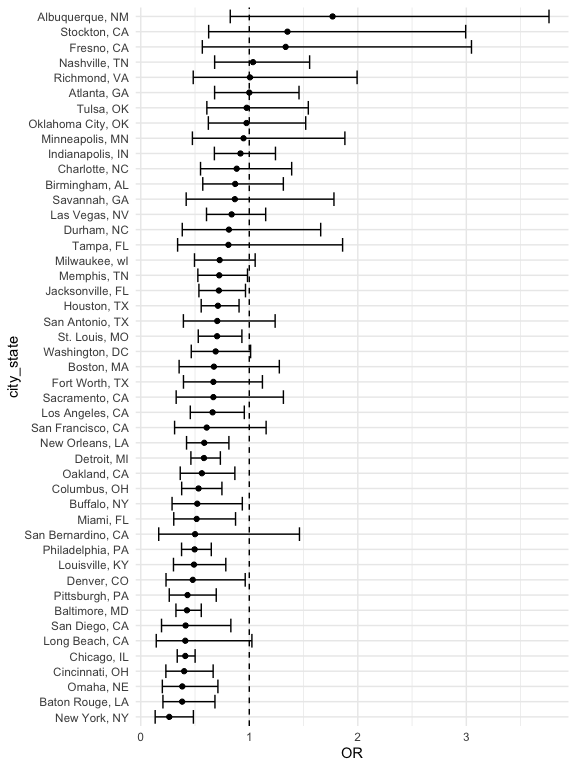
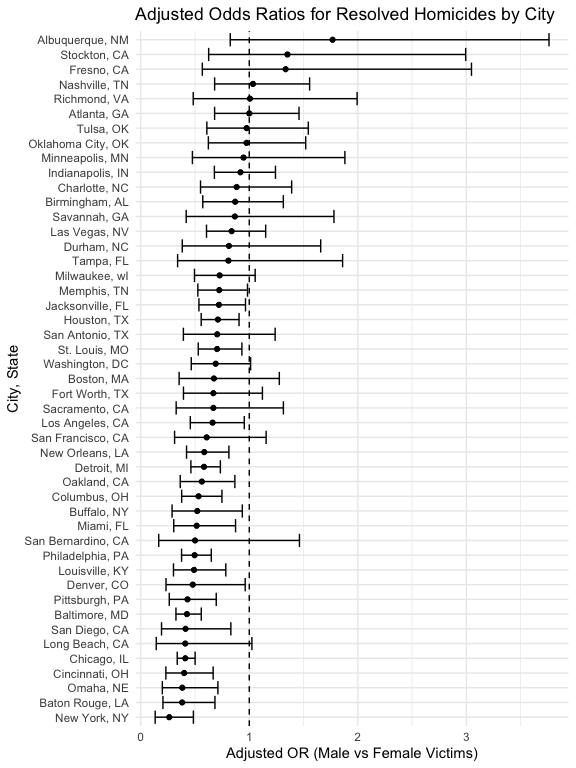
problem 2

Changed region(s): [[0.0312, 0.0, 0.9688, 0.9375], [0.375, 0.9688, 0.8438, 1.0], [0.0, 0.4375, 0.0312, 0.5312]]

diff --git a/p8105_hw6_xc2784.md b/p8105_hw6_xc2784.md
@@ -111,6 +111,11 @@ city_plot <- ggplot(city_ordered, aes(x = OR, y = city_state)) +
   geom_point() +
   geom_errorbarh(aes(xmin = conf.low, xmax = conf.high)) +
   geom_vline(xintercept = 1, linetype = "dashed") +
+    labs(
+      x = "Adjusted OR (Male vs Female Victims)",
+      y = "City, State",
+      title = "Adjusted Odds Ratios for Resolved Homicides by City"
+    ) +
   theme_minimal()
 
 city_plot
@@ -126,3 +131,136 @@ opposite pattern, but these are exceptions. However, most cities have
 ORs near 1, and their confidence intervals cross 1, suggesting there is
 little evidence of a statistically difference in resolved rates between
 male and female victims after adjusting for age and race.
+
+### Problem 2
+
+``` r
+library(p8105.datasets)
+data("weather_df")
+
+weather <-
+  weather_df %>% 
+  filter(name == "CentralPark_NY") %>% 
+  drop_na(tmax, tmin, prcp)
+
+reg = lm(tmax ~ tmin + prcp, data = weather)
+reg %>% glance() %>% select(r.squared)
+```
+
+    ## # A tibble: 1 × 1
+    ##   r.squared
+    ##       <dbl>
+    ## 1     0.912
+
+``` r
+reg %>% tidy()
+```
+
+    ## # A tibble: 3 × 5
+    ##   term        estimate std.error statistic   p.value
+    ##   <chr>          <dbl>     <dbl>     <dbl>     <dbl>
+    ## 1 (Intercept)  7.56     0.162        46.6  1.31e-220
+    ## 2 tmin         1.03     0.0119       86.9  0        
+    ## 3 prcp        -0.00157  0.000966     -1.63 1.04e-  1
+
+``` r
+set.seed(1)
+n_boot <- 5000
+
+boot_samples <-
+  weather %>%
+  modelr::bootstrap(n = n_boot, id = "strap_id")
+
+boot_results <-
+  boot_samples %>%
+  mutate(
+    fit  = map(strap, ~ lm(tmax ~ tmin + prcp, data = .x)),
+    gl   = map(fit, glance),
+    coef = map(fit, tidy)
+  ) %>%
+  mutate(
+    r_sq = map_dbl(gl, "r.squared"),
+    beta_ratio = map_dbl(
+      coef,
+      ~ {
+        tmp <- .x %>% select(term, estimate)
+        
+        b_tmin <- tmp %>%
+          filter(term == "tmin") %>%
+          pull(estimate)
+        
+        b_prcp <- tmp %>%
+          filter(term == "prcp") %>%
+          pull(estimate)
+        
+        b_tmin / b_prcp
+      }
+    )
+  ) %>%
+  select(strap_id, r_sq, beta_ratio)
+
+boot_results
+```
+
+    ## # A tibble: 5,000 × 3
+    ##    strap_id  r_sq beta_ratio
+    ##    <chr>    <dbl>      <dbl>
+    ##  1 0001     0.913      -237.
+    ##  2 0002     0.921      -424.
+    ##  3 0003     0.905     -1492.
+    ##  4 0004     0.921      -364.
+    ##  5 0005     0.906      -461.
+    ##  6 0006     0.915      -634.
+    ##  7 0007     0.919      -808.
+    ##  8 0008     0.905     -2435.
+    ##  9 0009     0.917      -723.
+    ## 10 0010     0.916      -344.
+    ## # ℹ 4,990 more rows
+
+``` r
+p1 = boot_results %>%
+  ggplot(aes(x = r_sq)) +
+  geom_histogram() +
+  theme_minimal() +
+  labs(x = "R-squared", title = "Bootstrap distribution of R-squared")
+
+p2 = boot_results %>%
+  ggplot(aes(x = beta_ratio)) +
+  geom_histogram() +
+  theme_minimal() +
+  labs(x = "β1 / β2",
+       title = "Bootstrap distribution of beta ratio")
+
+p1+p2
+```
+
+![](p8105_hw6_xc2784_files/figure-gfm/unnamed-chunk-8-1.png)<!-- -->
+
+``` r
+boot_results %>%
+  summarize(
+    r2_025  = quantile(r_sq, 0.025),
+    r2_975  = quantile(r_sq, 0.975),
+    br_025  = quantile(beta_ratio, 0.025),
+    br_974  = quantile(beta_ratio, 0.975)
+  )
+```
+
+    ## # A tibble: 1 × 4
+    ##   r2_025 r2_975 br_025 br_974
+    ##    <dbl>  <dbl>  <dbl>  <dbl>
+    ## 1  0.894  0.928 -5616.  4587.
+
+From the bootstrap results: r2: 95% CI: \[0.89, 0.93\] 𝛽1/𝛽2: 95% CI:
+\[–5616.45, 4568.92\]
+
+The bootstrap distribution of r2 is more concentrated and normally
+distributed, with most values falling around 0.91–0.93. This suggests
+that the fitted model gives similar r2 values across bootstrap samples.
+
+The bootstrap distribution of the beta ratio 𝛽1/𝛽2 is much more spread
+out, with values covering a very wide range and a tall spike near zero.
+This indicates that the ratio varies a lot from sample to sample, and
+its values can become quite large in magnitude. This happens because the
+coefficient for precipitation is close to zero and flips sign across
+samples
